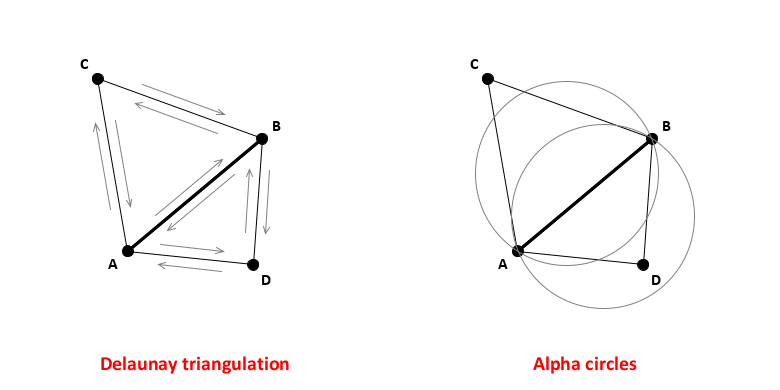
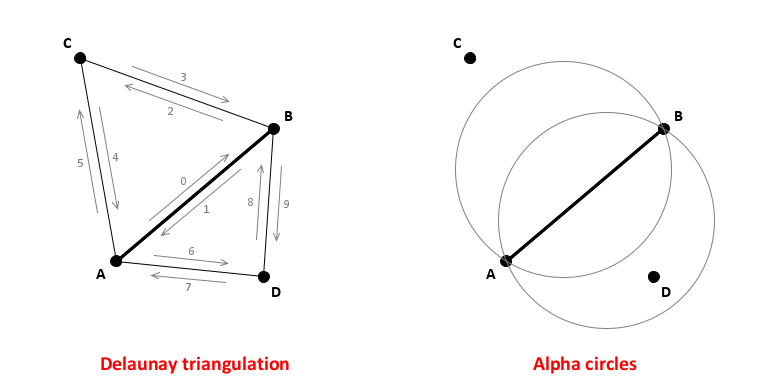
Editorial additions

diff --git a/docs/AlphaShape/AlphaShapePart3.html b/docs/AlphaShape/AlphaShapePart3.html
@@ -56,7 +56,7 @@
                     for two circles of radius <i>r</i> that intersect a line segment of length
                     <i>2r</i> or less. This calculation can be accomplished using basic algebra,
                     though a software implementation needs to make a few adjustments to compensate
-                    for the limits of float-point arithmetic.  In particular, when processing
+                    for the limits of floating-point arithmetic.  In particular, when processing
                     geospatial data, we are often faced with coordinates that are separated by small
                     distances but have a large magnitude. And, under some circumstances, calculations
                     with large-magnitude values suffer a loss of precision when low-order digits
@@ -73,6 +73,7 @@
                     and
                     <img class="imageInText" width=119 height=29 src="math2/image005.png">.
                 </p>
+                <img width="390" height="390" alt="Alpha circles" title="Segment with alpha circles" src="images3/AlphaCirclesForSegment.png"/>
                 <p>Let</p>
                 <table class="math">
                     <tr>
@@ -87,9 +88,9 @@
 
                 <p>This specification essentially transforms the endpoints of
                     the segment to a new coordinate system in which they are defined as
-                    <img class="imageInText" width=42 height=25 src="math2/image008.png">
-                    and  <img class="imageInText" width=43 height=25 src="math2/image009.png">.
-                    From the definition of a circle, we obtain the relationships shown
+                    <i>(0, 0)</i> and <i>(h, k)</i>.
+                    Because both endpoints are at distance <i>r</i> from the center <i>(x, y)</i> of an
+                    alpha circle, we can use the distance formula to obtain the relationships shown
                     below in [1].  While these equations superficially resemble the
                     standard equations for a circle, they are actually intended to
                     allow us to find the <i>centers</i> of the circles.
@@ -224,7 +225,7 @@
                 The Tinfour implementation uses this
                 information as part of its logic for constructing the alpha shape.
                 So, when computing the alpha circle centers,
-                Tinfour ensures that the solutiuons are given in order
+                Tinfour ensures that the solutions are given in order
                 so that  the circle center to the left of the line segment is given first
                 and the circle center to the right of the line segment is given second.
 
